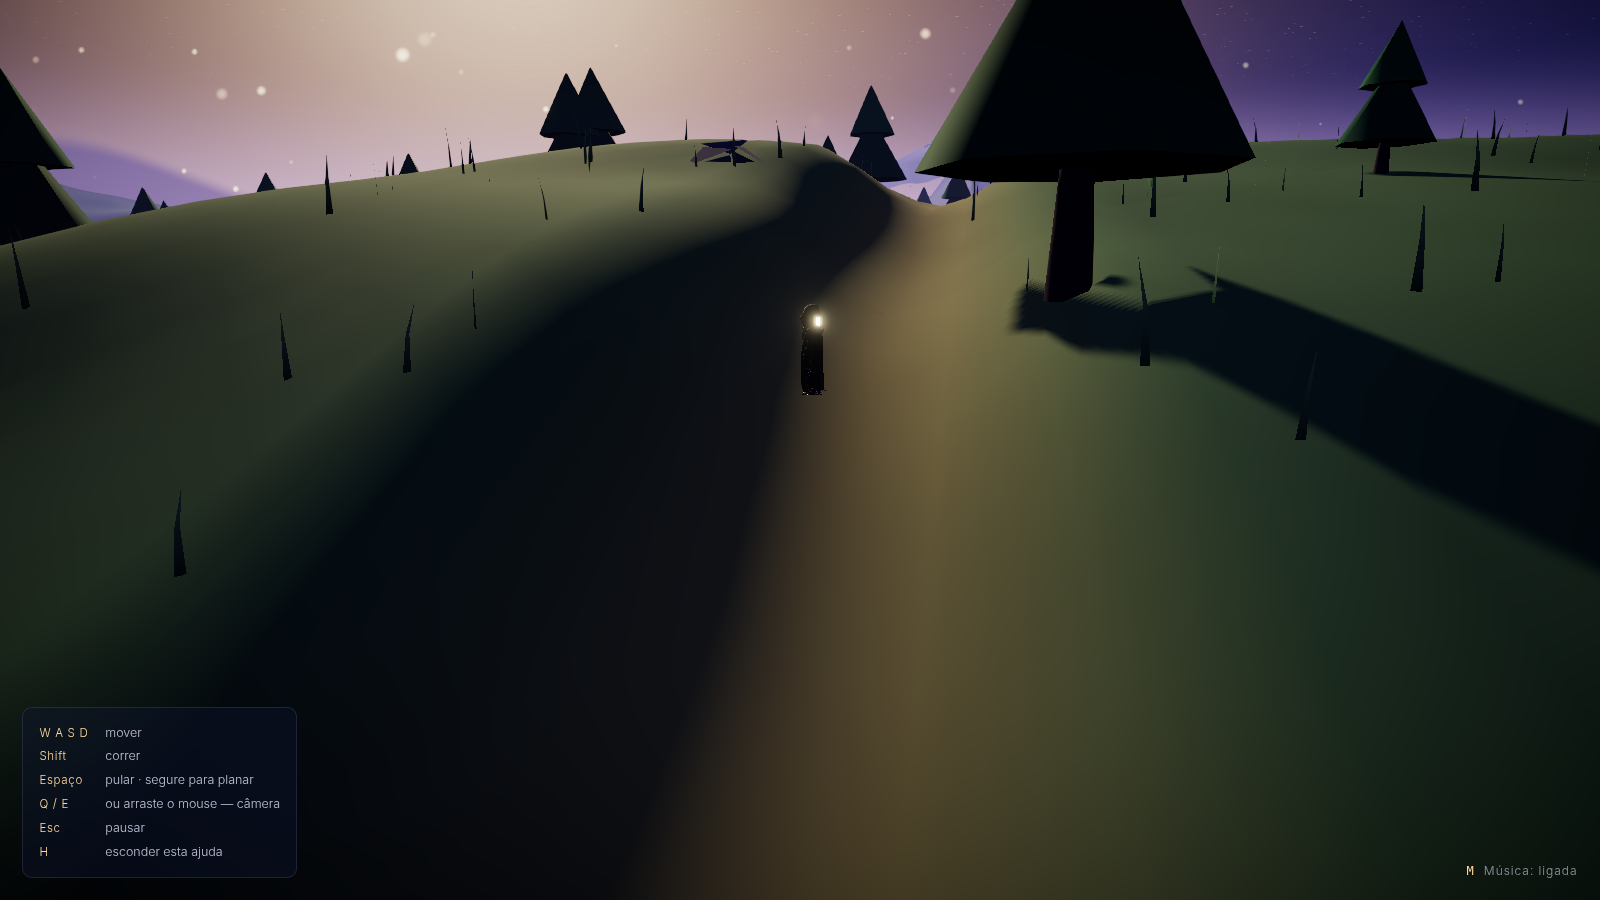
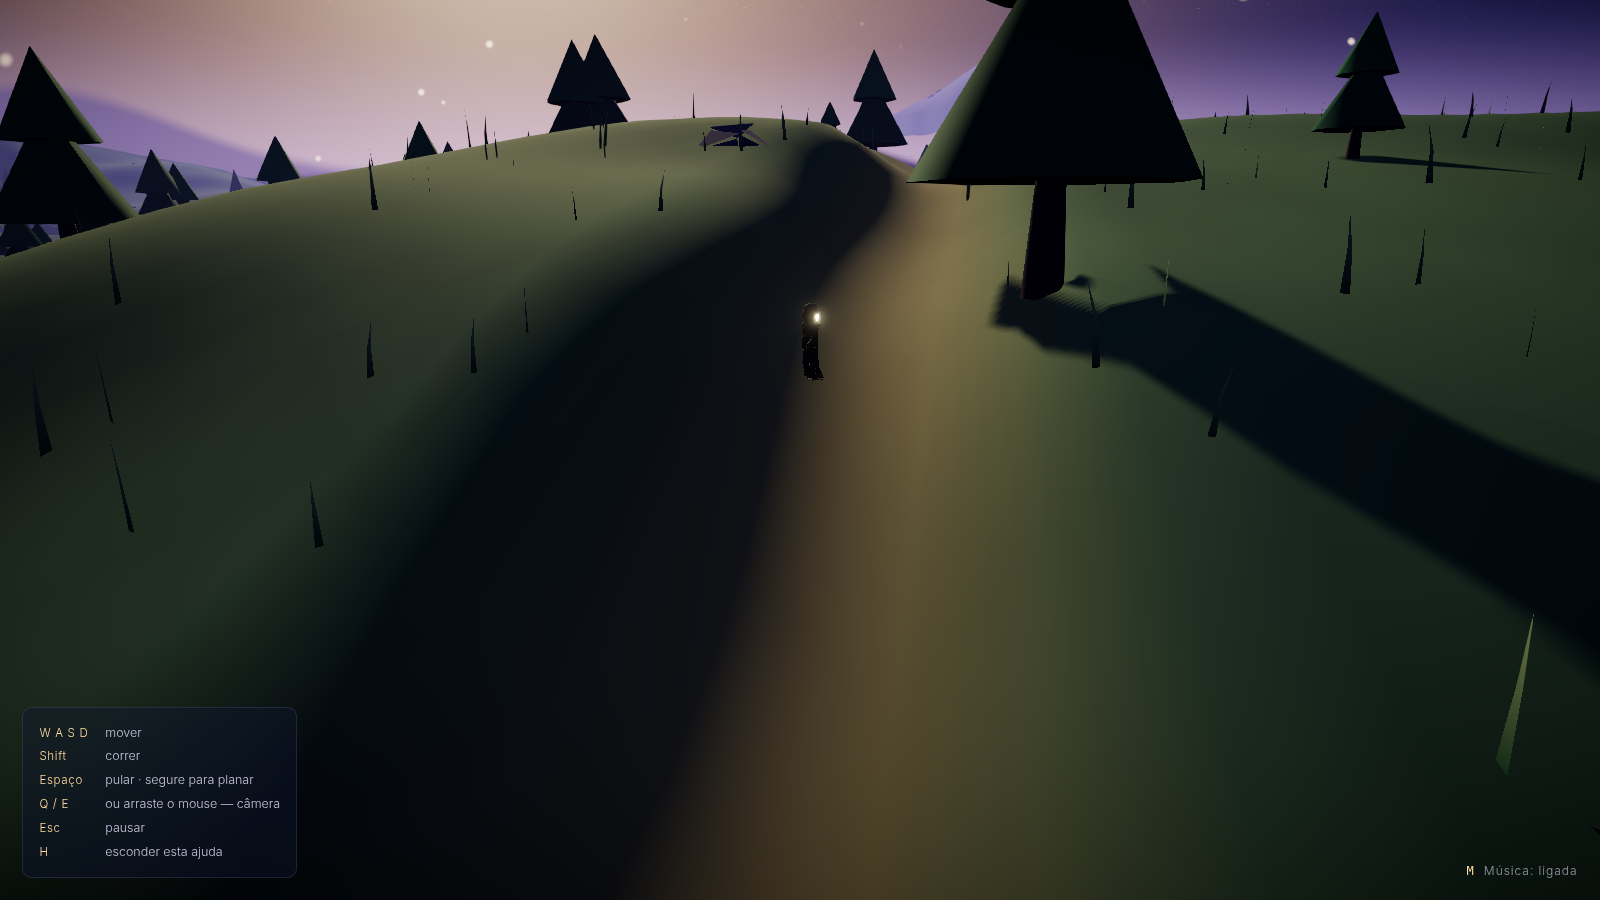
Add procedural walk bob/sway since the new character has no rig
The hooded figure is a static mesh (no skeleton), so there's nothing to
crossfade between poses. Drives a vertical bob + lateral sway off the same
walkPhase that already times footstep SFX, so the visual beat lands on the
same "step" as the sound.

diff --git a/src/player/Player.tsx b/src/player/Player.tsx
@@ -78,9 +78,15 @@ const STEEP_SLIDE_ACCEL = 16
 /** Modelo já exportado game-ready (pés em Y=0, altura ~1.45 — ver blender/export_game_character.py). */
 const MODEL_SCALE = 1
 
+/** Bob vertical no pico da passada (unidades de mundo). */
+const WALK_BOB_HEIGHT = 0.06
+/** Balanço lateral (rad) — o manto pesado embala de um lado pro outro. */
+const WALK_SWAY = 0.05
+
 function CharacterModel() {
   const group = useRef<THREE.Group>(null)
   const { scene } = useGLTF(MODEL_URL)
+  const walkBlend = useRef(0)
 
   useEffect(() => {
     scene.scale.setScalar(MODEL_SCALE)
@@ -92,6 +98,18 @@ function CharacterModel() {
       }
     })
   }, [scene])
+
+  // Sem rig/animação real: simula a passada com bob + balanço procedurais na
+  // mesma fase (playerState.walkPhase) que já sincroniza o som dos passos —
+  // o baque do som cai exatamente no fundo do bob (pé "tocando" o chão).
+  useFrame((_, dt) => {
+    if (!group.current) return
+    const target = playerState.grounded ? playerState.speedFactor : 0
+    walkBlend.current = lerp(walkBlend.current, target, dampFactor(8, dt))
+    const phase = playerState.walkPhase
+    group.current.position.y = Math.abs(Math.sin(phase)) * WALK_BOB_HEIGHT * walkBlend.current
+    group.current.rotation.z = Math.sin(phase) * WALK_SWAY * walkBlend.current
+  })
 
   return (
     <group ref={group}>